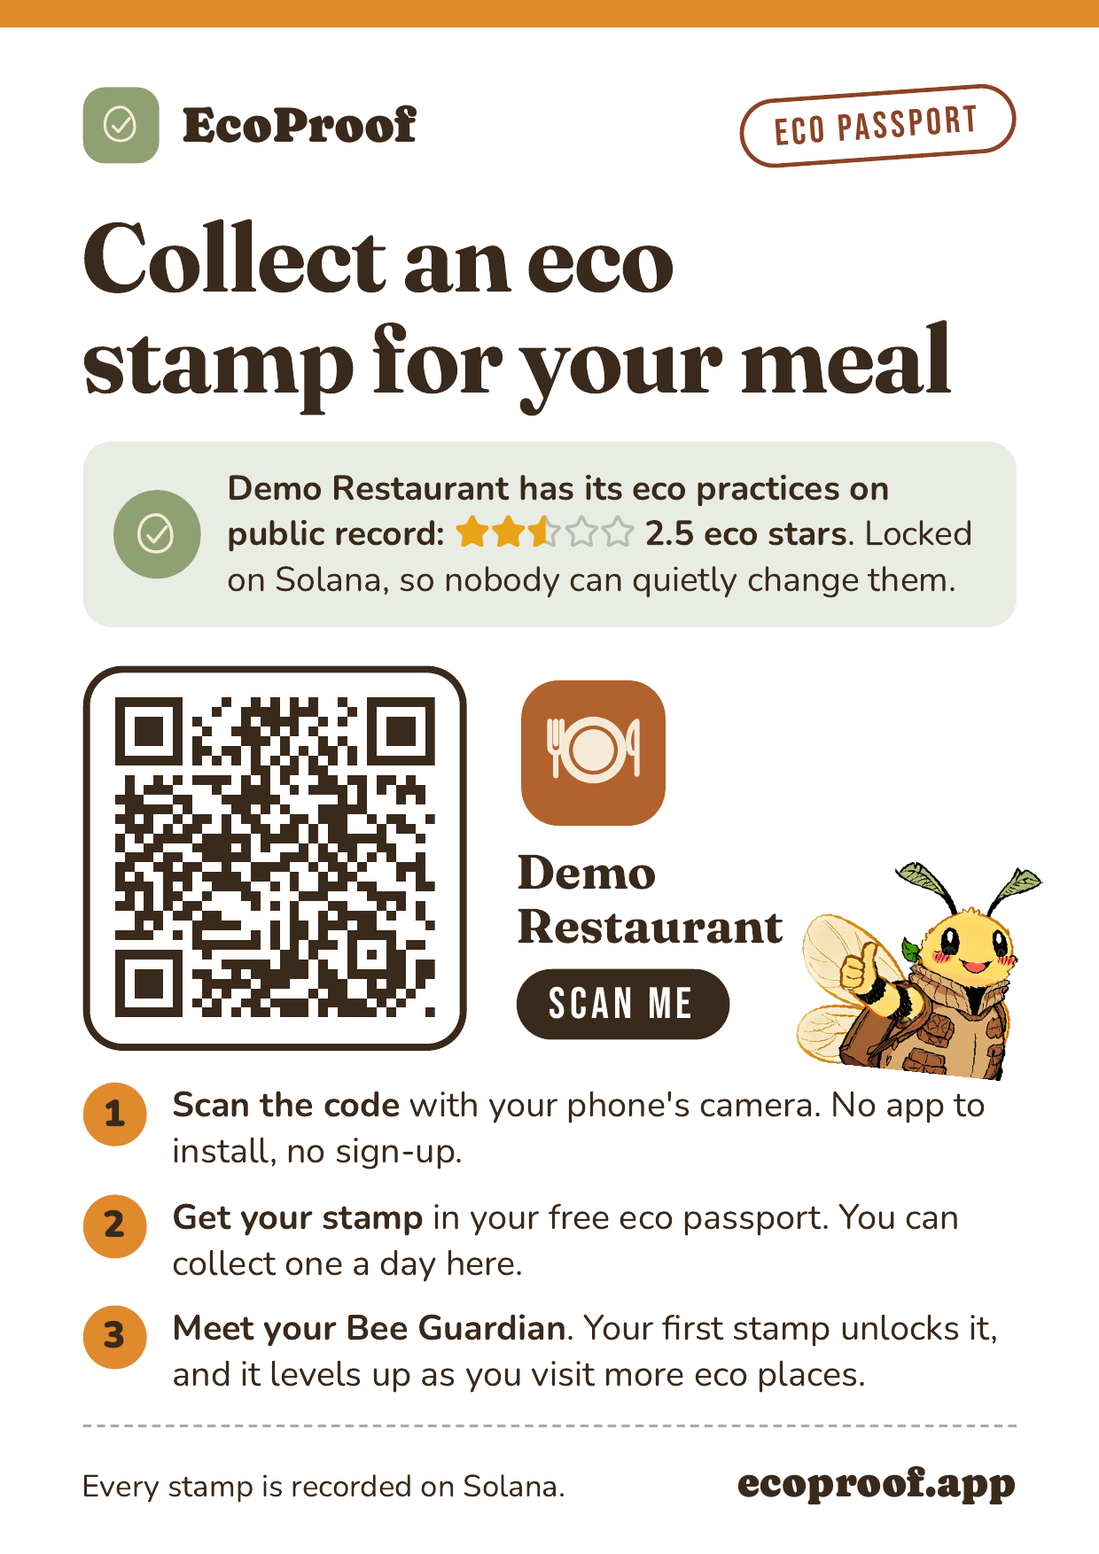
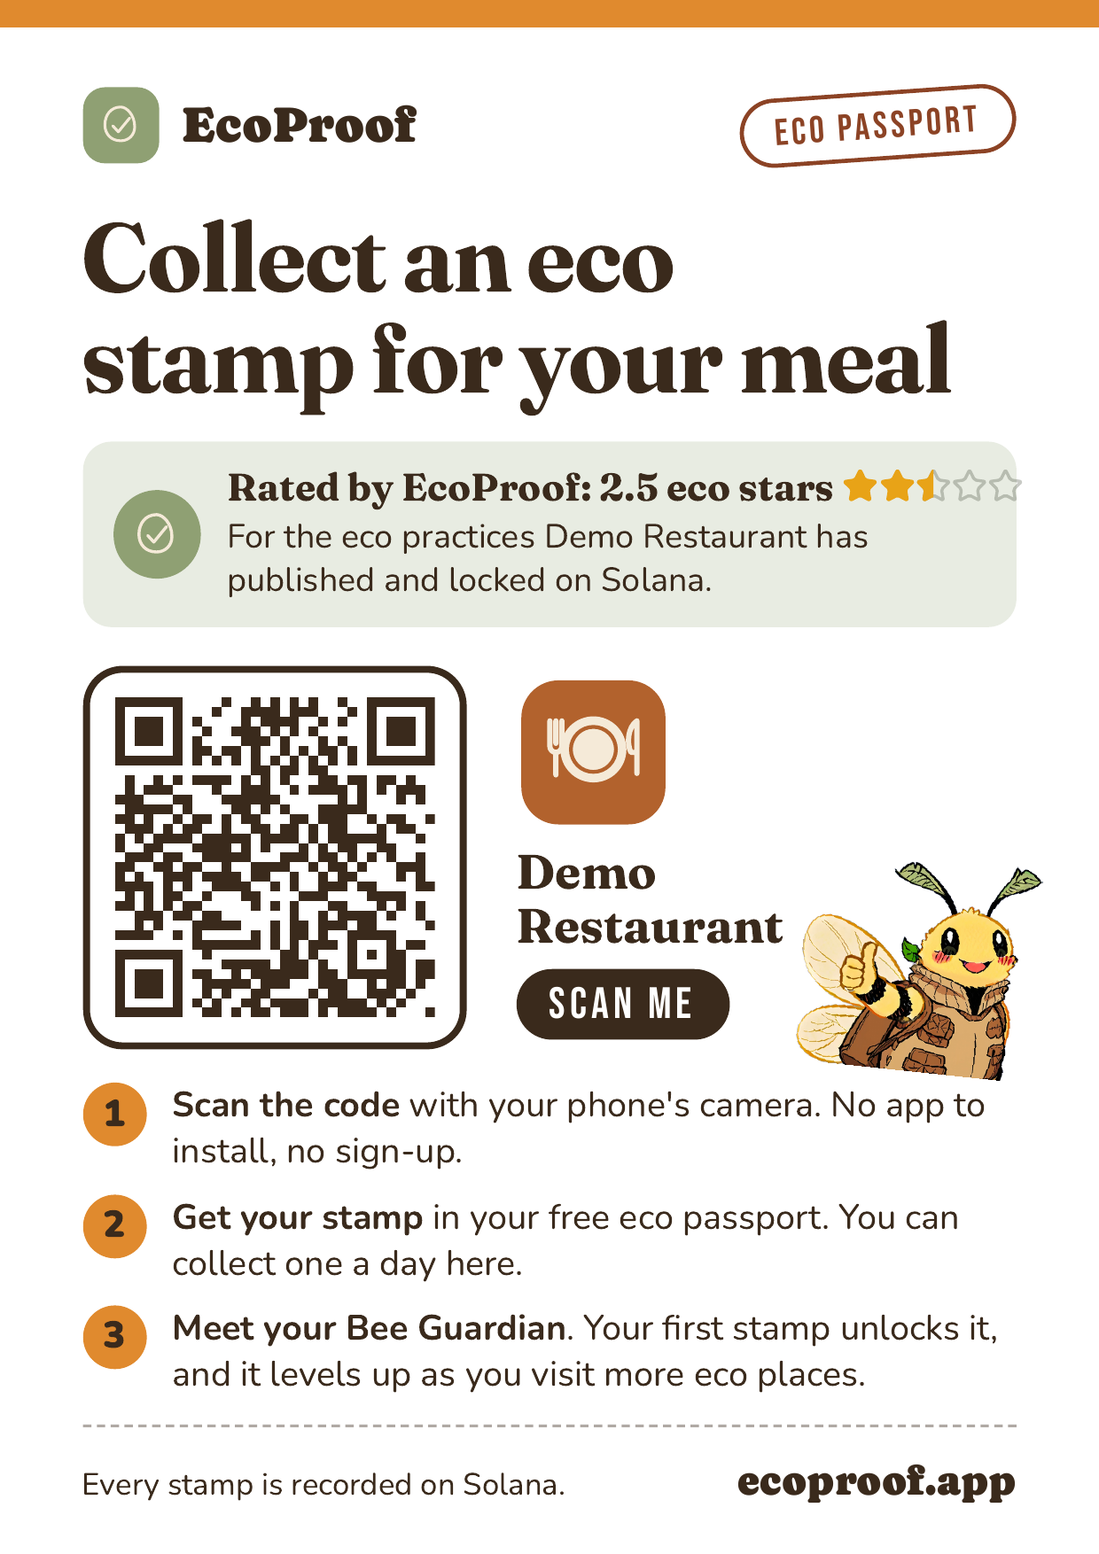
Postcard: Rated by EcoProof, N eco stars
The box under the headline now leads with EcoProof's rating of the place.
Café, restaurant, hotel and hero pictures re-made with it.

Claude-Session: https://claude.ai/code/session_01HWHP3iugw8gkvvKKS5vpBj

diff --git a/components/Postcard.tsx b/components/Postcard.tsx
@@ -52,10 +52,13 @@ export default function Postcard({ mark, headline, place, qr, code, steps }: Pos
 
         <p className="pc-h">{headline}</p>
         {place.stars ? <>
-          {/* The lead gives way to this box (the card's height is fixed); the steps still say what the passport is. Why to trust the place itself: its practices are published and anchored (lib/declarations.ts). Self-declared, so "on public record", never "certified". */}
+          {/* The lead gives way to this box (the card's height is fixed); the steps still say what the passport is. Why to trust the place itself (Pola, 2026-11-18: the card must say the place is eco by EcoProof's measure): the stars are EcoProof's rating (lib/stars.ts) of the practices the place published and anchored (lib/declarations.ts). The practices are self-declared and nobody inspects them, so "rated", never "approved", "certified" or "verified". */}
           <p className="pc-proof">
             <span className="pc-seal" style={{ background: SAGE }}><LeafMark size={100} /></span>
-            <span><b>{place.name} has its eco practices on public record:</b> <span className="pc-stars"><Stars stars={place.stars} size={100} /></span> <b>{place.stars} eco star{place.stars === 1 ? "" : "s"}</b>. Locked on Solana, so nobody can quietly change them.</span>
+            <span>
+              <span className="pc-rated">Rated by EcoProof: {place.stars} eco star{place.stars === 1 ? "" : "s"} <span className="pc-stars"><Stars stars={place.stars} size={100} /></span></span>
+              For the eco practices {place.name} has published and locked on Solana.
+            </span>
           </p>
         </> : <p className="pc-lead">EcoProof is the passport for people who choose places that cut plastic and waste. <b>{place.name}</b> is one of them.</p>}
 
@@ -115,10 +118,11 @@ export function postcardCss({ cols, rows, landscape = false }: { cols: number; r
 .pc-place { min-width: 0; flex: 1; display: flex; flex-direction: column; align-items: flex-start; gap: 1.5cqw; }
 .pc-stamp { width: 14cqw; height: 14cqw; }
 .pc-name { max-width: 26cqw; font-family: var(--font-fraunces), Georgia, serif; font-weight: 700; font-size: 4.4cqw; line-height: 1.1; overflow-wrap: anywhere; }
-.pc-proof { margin-top: 3cqw; padding: 2.2cqw 2.8cqw; display: flex; gap: 2.4cqw; align-items: center; border-radius: 2.6cqw; background: rgba(143, 163, 114, 0.2); font-size: 3.15cqw; line-height: 1.32; text-wrap: pretty; }
+.pc-proof { margin-top: 3cqw; padding: 2.2cqw 2.8cqw; display: flex; gap: 2.4cqw; align-items: center; border-radius: 2.6cqw; background: rgba(143, 163, 114, 0.2); font-size: 3.05cqw; line-height: 1.3; text-wrap: pretty; }
 .pc-seal { flex: none; display: inline-flex; align-items: center; justify-content: center; width: 8cqw; height: 8cqw; border-radius: 999px; }
 .pc-seal svg { width: 60%; height: 60%; }
-.pc-stars { display: inline-flex; vertical-align: -0.4cqw; }
+.pc-rated { display: block; margin-bottom: 0.5cqw; font-family: var(--font-fraunces), Georgia, serif; font-weight: 700; font-size: 3.5cqw; line-height: 1.15; white-space: nowrap; }
+.pc-stars { display: inline-flex; vertical-align: -0.3cqw; }
 .pc-stars svg { width: 3.3cqw; height: 3.3cqw; }
 .pc-arrow { font-family: var(--font-bebas), Impact, sans-serif; font-size: 4cqw; letter-spacing: 0.1em; text-transform: uppercase; line-height: 1; color: #fff; background: var(--color-cocoa);
   border-radius: 999px; padding: 1.4cqw 3cqw 1cqw; }

diff --git a/components/landing/Landing.tsx b/components/landing/Landing.tsx
@@ -350,7 +350,7 @@ export default async function Landing({ stats }: { stats: LandingStats | null })
         <ul className="mt-8 grid gap-6 md:grid-cols-3">
           {doors.map((d, i) => (
             <li key={d.img} className="stitched grain flex flex-col rounded-[20px] bg-kraft/50 p-4 sm:p-5">
-              <Image src={`/landing/doors/v3/${d.img}.webp`} alt="" width={640} height={640} sizes="(min-width: 768px) 360px, 100vw" className="sticker aspect-[16/10] w-full object-cover object-[50%_70%] md:aspect-square" style={{ transform: `rotate(${[-1.5, 1, -1][i]}deg)` }} />
+              <Image src={`/landing/doors/v4/${d.img}.webp`} alt="" width={640} height={640} sizes="(min-width: 768px) 360px, 100vw" className="sticker aspect-[16/10] w-full object-cover object-[50%_70%] md:aspect-square" style={{ transform: `rotate(${[-1.5, 1, -1][i]}deg)` }} />
               <h3 className="mt-5 text-[22px] leading-tight">{d.title}</h3>
               <p className="mt-2 inline-flex items-center gap-1.5 self-start rounded-full bg-paper px-3 py-1 text-[13px] font-extrabold text-cocoa ring-1 ring-cocoa/10"><Stamp size={14} className="shrink-0 text-sky-ink" /> {d.door}</p>
               {/* Three facts per card (critique of 14 Nov 2026: 12+ chunks for "which one am I?"); what customers get is in "For customers". */}

diff --git a/components/landing/HowItWorks.tsx b/components/landing/HowItWorks.tsx
@@ -24,10 +24,10 @@ const VISIT_POINTS = `${Math.min(...visits)}–${Math.max(...visits)} points`;
 
 const PLACES: { cap: string; title: string; points: string; src: string; alt: string }[] = [
   { cap: "The QR code on the counter", title: "Café, restaurant, hotel or resort", points: `${VISIT_POINTS} for each visit, once a day.`,
-    src: `${PIC}/counter.webp`,
+    src: `${PIC}/counter-rated.webp`,
     alt: "A café counter with the EcoProof postcard on a wooden stand beside a cup of coffee: Collect an eco stamp for your visit, a QR code, three steps and the Bee Guardian" },
   { cap: "The receipt from the till", title: "A purchase in an eco shop", points: `${pointsLabel(POINTS_VERIFIED)} for a photo of the receipt, taken in the shop. ${pointsLabel(POINTS_BY_KIND.eco_shop)} for the QR code at the till.`,
-    src: "/landing/doors/v3/store.webp",
+    src: "/landing/doors/v4/store.webp",
     alt: "The counter of an eco shop: a customer photographs the till receipt with a phone, and the screen shows what the purchase avoided" },
   { cap: "The QR code in the order email or the parcel", title: "An online order", points: `${pointsLabel(POINTS_VERIFIED)} for each verified order.`,
     src: `${PIC}/parcel-home.webp`,

diff --git a/components/landing/IslandHero.tsx b/components/landing/IslandHero.tsx
@@ -12,7 +12,7 @@ export default function IslandHero({ children }: { children: React.ReactNode }) 
   return (
     <section className="grain relative overflow-hidden bg-kraft/60">
       <div className="lg:absolute lg:inset-y-0 lg:right-0 lg:w-[58%]">
-        <Image src="/landing/hero/desk-scan.webp" width={2432} height={1664} priority sizes="(min-width: 1024px) 58vw, 100vw"
+        <Image src="/landing/hero/desk-rated.webp" width={2432} height={1664} priority sizes="(min-width: 1024px) 58vw, 100vw"
           alt="The wooden desk of an eco hotel in warm evening light, a plant and a sunny terrace behind it. On the desk stands the hotel's EcoProof postcard: Collect an eco stamp for your stay, with the hotel's eco stars and a QR code"
           className="hero-photo block aspect-[3/2] w-full object-cover object-[30%_50%] lg:aspect-auto lg:h-full" />
         <HeroPhone />

diff --git a/CLAUDE.md b/CLAUDE.md
@@ -68,7 +68,7 @@ on Solana. For sustainable shops, cafés, markets and online brands.
   the colour. No name inside it (unreadable at 44px, and the name always stands beside it), so never crop it with `rounded-full`.
   The owner changes logo and tagline in the dashboard's "Logo and tagline" panel (`components/ProfilePanel.tsx`,
   `PUT /api/places/mine/<id>/profile`, rules in `lib/placeLogo.ts`); the name can't be changed yet.
-- Postcard, proof box (Pola, 2026-11-18): when the place has published practices (stars), the card shows under the headline "<Place> has its eco practices on public record: ★ N eco stars. Locked on Solana, so nobody can quietly change them." and drops the lead to make room. Practices are self-declared, so the wording is "on public record", never "certified" or "verified eco". Every landing picture with a postcard was re-made with it (`art/postcard`, hero).
+- Postcard, rating box (Pola, 2026-11-18: the card must tell the customer the place is eco by EcoProof's measure): when the place has published practices (stars), the card shows under the headline "Rated by EcoProof: N eco stars ★" and "For the eco practices <Place> has published and locked on Solana.", and drops the lead to make room (the card's height is fixed; check the print PDF after any text change). Pola asked for "approved eco by EcoProof"; the practices are self-declared and nobody inspects a place, so the wording is "rated", never "approved", "certified" or "verified", until there is a real review step (`stamp_places.status` has `under_review` but no process). Every landing picture with a postcard was re-made with it (`art/postcard`, `art/hero-scan`).
 - Postcard (`components/Postcard.tsx`): the one printed card, used for a place's counter or tables (`/place/<id>`, "Print your postcard")
   only. An online shop's parcel cards (`/place/<id>/cards?batch=`, 20 single-use codes per batch) are `ParcelCard` in the same file: a business card (85 x 55 mm, ten on an A4 sheet, `parcelCardCss()`), with only the QR, the code, the headline, the shop's name, "no app, no sign-up", "works once" and the bee (Pola, 2026-11-18: a green shop must not put an A6 card in a parcel). The postcard It must explain EcoProof to someone
   who has never heard of it (Pola, 2026-11-16: nobody scans a QR without knowing what it is): headline, one sentence on EcoProof, the
@@ -99,7 +99,7 @@ on Solana. For sustainable shops, cafés, markets and online brands.
   caches bust; current `v4`. A scroll parallax was tried and dropped (not seen as moving, blurred the strip). The Bee Guardian cutout (`public/landing/bee.webp`, from `art/v2/ranks/sentinel/sentinel_card.png`) peeks in. The
   card-fan hero (`components/landing/HeroArt.tsx`, `public/landing/cards/*.webp`, 2x of 300x420, from `art/v2/compositor/samples/`, SVG stamp
   rings) stays behind `NEXT_PUBLIC_LANDING_HERO=cards`. Paper grain and stamps are CSS. Buildings inpainted onto the island (`inpaint.py`,
-  `v3_*.py`) never matched; the island stays as generated. The earlier SD flat-lay hero (`art/hero-r1/`, `art/v2/hero/`) was dropped for mixing two styles; the owner-door photos (`public/landing/doors/v3/`). Since 2026-11-18 every picture of a place shows the real A6 postcard, not a bare QR card (Pola): `art/postcard/` holds the recipe. `gen.py <scene> <seeds>` renders epicrealismXL scenes with one blank portrait card on a wooden stand (café 403, restaurant 403, hotel `reception2` 436, eco store 402 are the picks; a card on a hotel bedside table never stood up, so the hotel is a reception desk, and the card must stand upright and face the camera: a leaning one reads as a crooked print); the card is the app's own print of a local demo place (`brave --headless --print-to-pdf http://localhost:3000/place/<id>?size=a4`, `pdftoppm -r 150 -png`; local-only places demo-cafe, demo-restaurant, demo-hotel, demo-eco-shop), `web_qr.py` swaps its QR for one to https://ecoproof.app, and `compose.py <cafe|restaurant|hotel|store>` finds the blank card and multiplies the postcard onto it → `out_<key>.png`. In use: café = `steps/v2/counter.webp`, restaurant = `doors/v3/coffee.webp`, hotel = `doors/v3/hotel.webp`; the store one (`out_store.png`) is made but not placed. The store door keeps the earlier receipt photo
+  `v3_*.py`) never matched; the island stays as generated. The earlier SD flat-lay hero (`art/hero-r1/`, `art/v2/hero/`) was dropped for mixing two styles; the owner-door photos (`public/landing/doors/v4/`). Since 2026-11-18 every picture of a place shows the real A6 postcard, not a bare QR card (Pola): `art/postcard/` holds the recipe. `gen.py <scene> <seeds>` renders epicrealismXL scenes with one blank portrait card on a wooden stand (café 403, restaurant 403, hotel `reception2` 436, eco store 402 are the picks; a card on a hotel bedside table never stood up, so the hotel is a reception desk, and the card must stand upright and face the camera: a leaning one reads as a crooked print); the card is the app's own print of a local demo place (`brave --headless --print-to-pdf http://localhost:3000/place/<id>?size=a4`, `pdftoppm -r 150 -png`; local-only places demo-cafe, demo-restaurant, demo-hotel, demo-eco-shop), `web_qr.py` swaps its QR for one to https://ecoproof.app, and `compose.py <cafe|restaurant|hotel|store>` finds the blank card and multiplies the postcard onto it → `out_<key>.png`. In use: café = `steps/v2/counter-rated.webp`, restaurant = `doors/v4/coffee.webp`, hotel = `doors/v4/hotel.webp`; the store one (`out_store.png`) is made but not placed. The store door keeps the earlier receipt photo
   (from `art/doors/v2/`: epicrealismXL scenes with blank surfaces, `gen.py`, restaurant seed 202, hotel 211, store 203 with the hand repainted off the
   screen by `inpaint_hand.py` seed 306; the screen is placed from the phone's `glass` corners in `compose.py`: the glass is painted near-black, then the screenshot goes inside it with an even bezel and rounded corners; `compose.py` prints the real QR card, the SuperBee receipt and the EcoProof screen from `assets.mjs` onto them; the café tile uses `coffee.webp`) and partner logos (`public/landing/partners/`, from
   `art/partner/`) stay. Step images `public/landing/steps/v2/` (a new folder whenever a deployed picture changes, so caches bust): connect is the café postcard photo (above; the earlier QR-card composites live in `art/steps/connect/`), parcel-home is the "order arrived" picture in a kitchen (Pola, 2026-11-18: real life, not a mail-window mock; the parcel card is a business card and lies in the opened parcel): `art/steps/email/gen.py inbox 905` is the epicrealismXL scene (a table from above, an opened kraft parcel with a white sheet in it, a tablet on a stand; SD would not draw a blank business card on request, so the sheet is tinted to packing paper and the card laid on it); the card is the app's own print (`/place/demo-eco-shop/cards?batch=picture&token=<ADMIN_TOKEN>` to PDF, `pdftoppm -r 600` crop → `bizcard.png`; local-only card DEMO7PARCL), its QR swapped for one to https://ecoproof.app; `render.php client full` (widened to 1333px with sed) runs `EcoProof_Stamp::html` outside WordPress as a mail app → `tablet-land.html`, screenshot with headless Brave at 1333x1000, scale 2 → `tablet-land.png`; `compose.py` puts both in by hand-read corners → `out_home.png`. The earlier scene (`gen.py parcel 525`, upright tablet, `render.php client full portrait`) had a blank A6 card and was replaced. A living-room version (`gen.py sofa 513`) came first and was replaced; `render.php client` still makes the mail-window mock, proof is the "Proof on Solana" card cropped out of `art/steps/stamp/stamp.png` (888,95, 685x572), stamp is a screenshot from
@@ -112,7 +112,7 @@ on Solana. For sustainable shops, cafés, markets and online brands.
   (`components/landing/CheckRecord.tsx` → `/api/verify`); "Your impact page writes itself" shows the example shop (most verified purchases) with
   its numbers linking to `/places/<id>#proofs` (the proof list, `shopProofs()` in `lib/shops.ts`), and the live badge: `lib/badge.ts` builds the SVG,
   `/api/badge/<place>.svg` serves it (eco shops only, cached 5 min), `badgeEmbed()` is the snippet, shown only on the owner dashboard (`badge` in the activity API); the landing shows the badge image without its code. Below `FEW_ORDERS` (10, `lib/badge.ts`) verified orders the badge and the landing widget lead with the order count instead of the totals, so one big order can't look like inflation. With no example shop the widget shows dashes,
-  never zeros. The hero (Pola, 2026-11-18) is "the scan moment": the copy on kraft with a photo beside it (above it on phones; `IslandHero.tsx`, fades in `.hero-photo`): the desk of an eco hotel in golden evening light, a plant and a terrace behind, the hotel's A6 postcard on its wooden block on the desk, and over the photo the phone that just scanned it (`HeroPhone`, drawn in HTML: "Stamp collected", the points, the proof, Sentinel unlocked; wide screens only). Recipe `art/hero-scan/`: `gen.py hand2 1513` (epicrealismXL, 1216x832; SD draws neither a hand holding a phone nor the card on request), `clear.py 1603` takes the phone off the desk, `compose.py` enlarges 2x (A1111 extras, R-ESRGAN 4x+), cuts card and block out of `art/postcard/reception2_436.png` with the postcard printed on, warms them and sets them on the desk → `out_hero.png` → `public/landing/hero/desk-scan.webp`. Tried and dropped the same day (Pola: "doesn't work"): a guest in a hotel room with the card on a table or welcome tray (`art/hero-room/`). The map of eco places (`MapPicture`) that stood in the hero has its own band under the award line ("Eco places, on one map."). Section order: hero, the award line, the map band (partner logos and "founding partner" dropped 2026-11-15), customers ("I'm eco, and I have proof.", `#customers`, moved up under the hero on 2026-11-18; its picture is the passport phone mockup), "How it works" (`#how`, a carousel since 2026-11-18, `components/landing/HowItWorks.tsx`; it replaced "Live in three steps" and the Solana journey, which told the same steps: slide 1 "Find the QR code" shows three places to find it, each a picture with what a stamp there is worth, in this order: the café postcard photo (café / restaurant / hotel / resort), the eco shop door's receipt photo (a purchase in an eco shop), the parcel-arrived picture (an online order: parcel card and order email); points read from `lib/stampClasses.ts`; slide 2 "A few seconds on the phone" has the stamp picture, four steps worded for a visit and an order at once (no switch), "Watch it on a phone" (swaps the picture for the visit replay) and sharing; slide 3 "And it stays that way" is the plain-words "What is Solana, and why put a coffee stamp on it?" with the proof picture under it, the promises and honest limits, and carries `#why-chain`, which opens that slide; one scroll-snap row, as tall as the slide on show, with tabs and a next button that ends in "Join as a business". Pola wants slide 2 more interactive or animated later: talk first), "Anyone can print a green badge" (`#proof`: claim vs a record headlined "Unchanged since <date>", with the live check), business types, "Your public page writes itself" (`#impact`: badge, the shop impact widget, and a star card from `LandingStats.hospitality` with a Café / Restaurant | Hotel / Resort switch (`components/landing/HospitalityCard.tsx`; each a real place once one has published stars, else a demo place shown as a dashed specimen with unfilled stars; the hotel side adds "What guests see before they book"), after the real shop widget on phones), pricing, closing. Below `COUNTERS_FROM` proofs the hero shows an "early days" line instead of counter tiles; below 10 purchases the impact widget starts with the orders behind its numbers and highlights no figure. Phones get a "Try it: collect a demo stamp" button instead of the QR card. The phone replay (`components/landing/StampJourney.tsx`, `door` prop, loops, still under reduced motion) replays the real claim steps for a visit or an order; the scannable on-page QR card, the hash/memo tiles (`ChainFlow`) and the on/off-chain box were dropped as too much, too technical.
+  never zeros. The hero (Pola, 2026-11-18) is "the scan moment": the copy on kraft with a photo beside it (above it on phones; `IslandHero.tsx`, fades in `.hero-photo`): the desk of an eco hotel in golden evening light, a plant and a terrace behind, the hotel's A6 postcard on its wooden block on the desk, and over the photo the phone that just scanned it (`HeroPhone`, drawn in HTML: "Stamp collected", the points, the proof, Sentinel unlocked; wide screens only). Recipe `art/hero-scan/`: `gen.py hand2 1513` (epicrealismXL, 1216x832; SD draws neither a hand holding a phone nor the card on request), `clear.py 1603` takes the phone off the desk, `compose.py` enlarges 2x (A1111 extras, R-ESRGAN 4x+), cuts card and block out of `art/postcard/reception2_436.png` with the postcard printed on, warms them and sets them on the desk → `out_hero.png` → `public/landing/hero/desk-rated.webp`. Tried and dropped the same day (Pola: "doesn't work"): a guest in a hotel room with the card on a table or welcome tray (`art/hero-room/`). The map of eco places (`MapPicture`) that stood in the hero has its own band under the award line ("Eco places, on one map."). Section order: hero, the award line, the map band (partner logos and "founding partner" dropped 2026-11-15), customers ("I'm eco, and I have proof.", `#customers`, moved up under the hero on 2026-11-18; its picture is the passport phone mockup), "How it works" (`#how`, a carousel since 2026-11-18, `components/landing/HowItWorks.tsx`; it replaced "Live in three steps" and the Solana journey, which told the same steps: slide 1 "Find the QR code" shows three places to find it, each a picture with what a stamp there is worth, in this order: the café postcard photo (café / restaurant / hotel / resort), the eco shop door's receipt photo (a purchase in an eco shop), the parcel-arrived picture (an online order: parcel card and order email); points read from `lib/stampClasses.ts`; slide 2 "A few seconds on the phone" has the stamp picture, four steps worded for a visit and an order at once (no switch), "Watch it on a phone" (swaps the picture for the visit replay) and sharing; slide 3 "And it stays that way" is the plain-words "What is Solana, and why put a coffee stamp on it?" with the proof picture under it, the promises and honest limits, and carries `#why-chain`, which opens that slide; one scroll-snap row, as tall as the slide on show, with tabs and a next button that ends in "Join as a business". Pola wants slide 2 more interactive or animated later: talk first), "Anyone can print a green badge" (`#proof`: claim vs a record headlined "Unchanged since <date>", with the live check), business types, "Your public page writes itself" (`#impact`: badge, the shop impact widget, and a star card from `LandingStats.hospitality` with a Café / Restaurant | Hotel / Resort switch (`components/landing/HospitalityCard.tsx`; each a real place once one has published stars, else a demo place shown as a dashed specimen with unfilled stars; the hotel side adds "What guests see before they book"), after the real shop widget on phones), pricing, closing. Below `COUNTERS_FROM` proofs the hero shows an "early days" line instead of counter tiles; below 10 purchases the impact widget starts with the orders behind its numbers and highlights no figure. Phones get a "Try it: collect a demo stamp" button instead of the QR card. The phone replay (`components/landing/StampJourney.tsx`, `door` prop, loops, still under reduced motion) replays the real claim steps for a visit or an order; the scannable on-page QR card, the hash/memo tiles (`ChainFlow`) and the on/off-chain box were dropped as too much, too technical.
 - `/join` lives outside `(app)` (`app/join/`, content in `components/landing/JoinFlow.tsx`) and wears the landing's journal chrome (`LandingNav page="join"`);
   sign-in there leads with Google/Facebook, the wallet sits under "Other ways to sign in".
 - Points by kind (`POINTS_BY_KIND` in `lib/stampClasses.ts`, decided 21 Oct 2026): a presence stamp is worth 1 at a café or restaurant,
